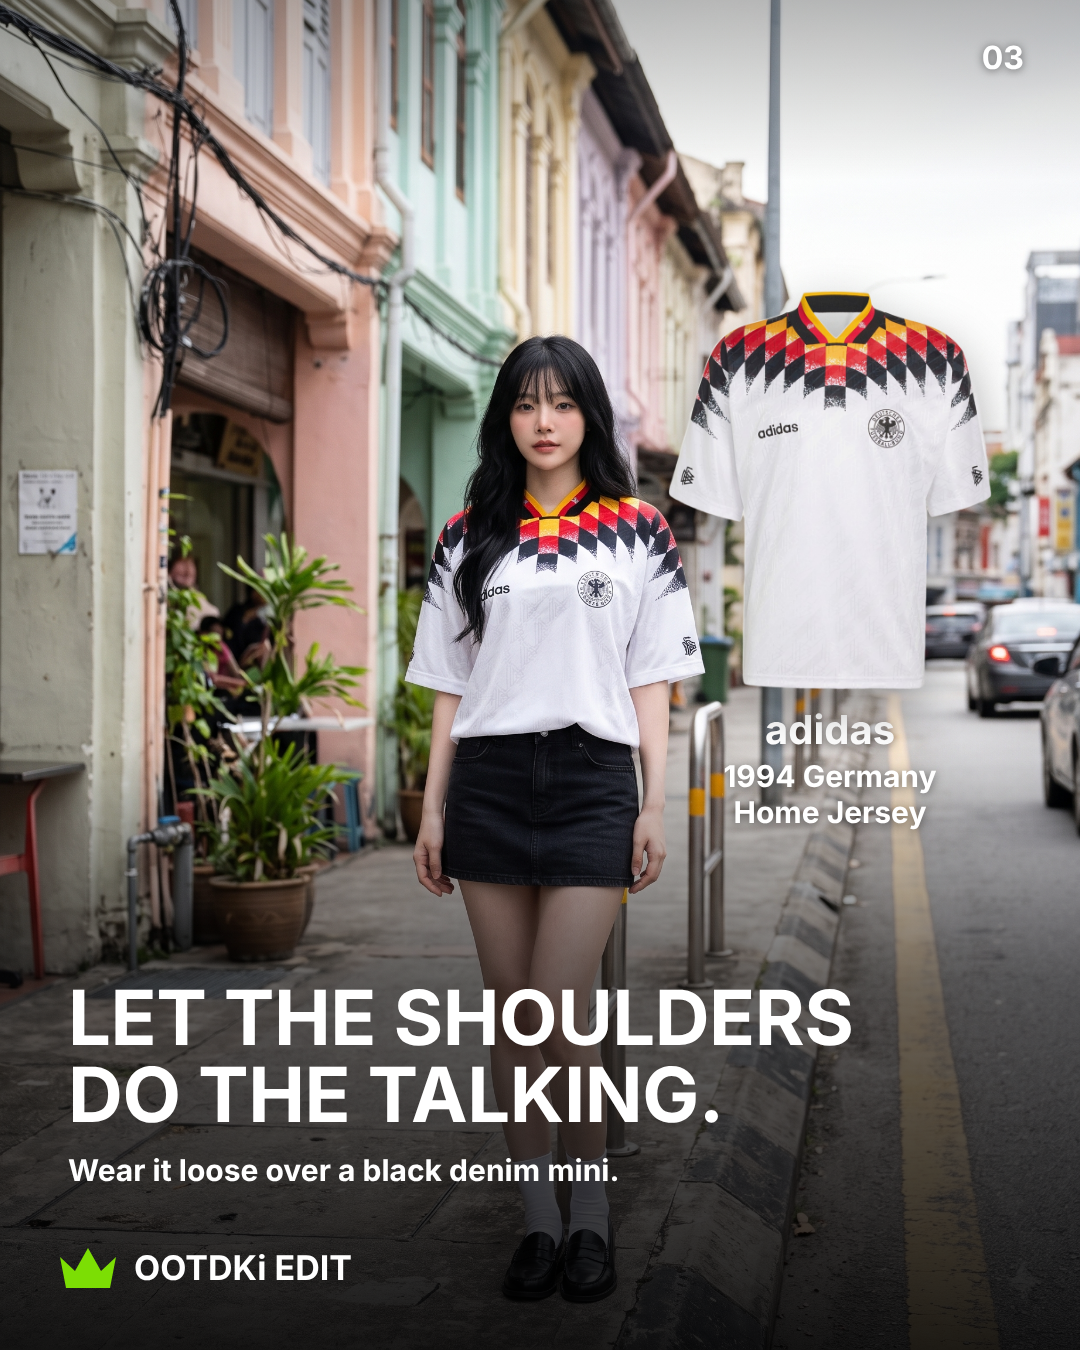
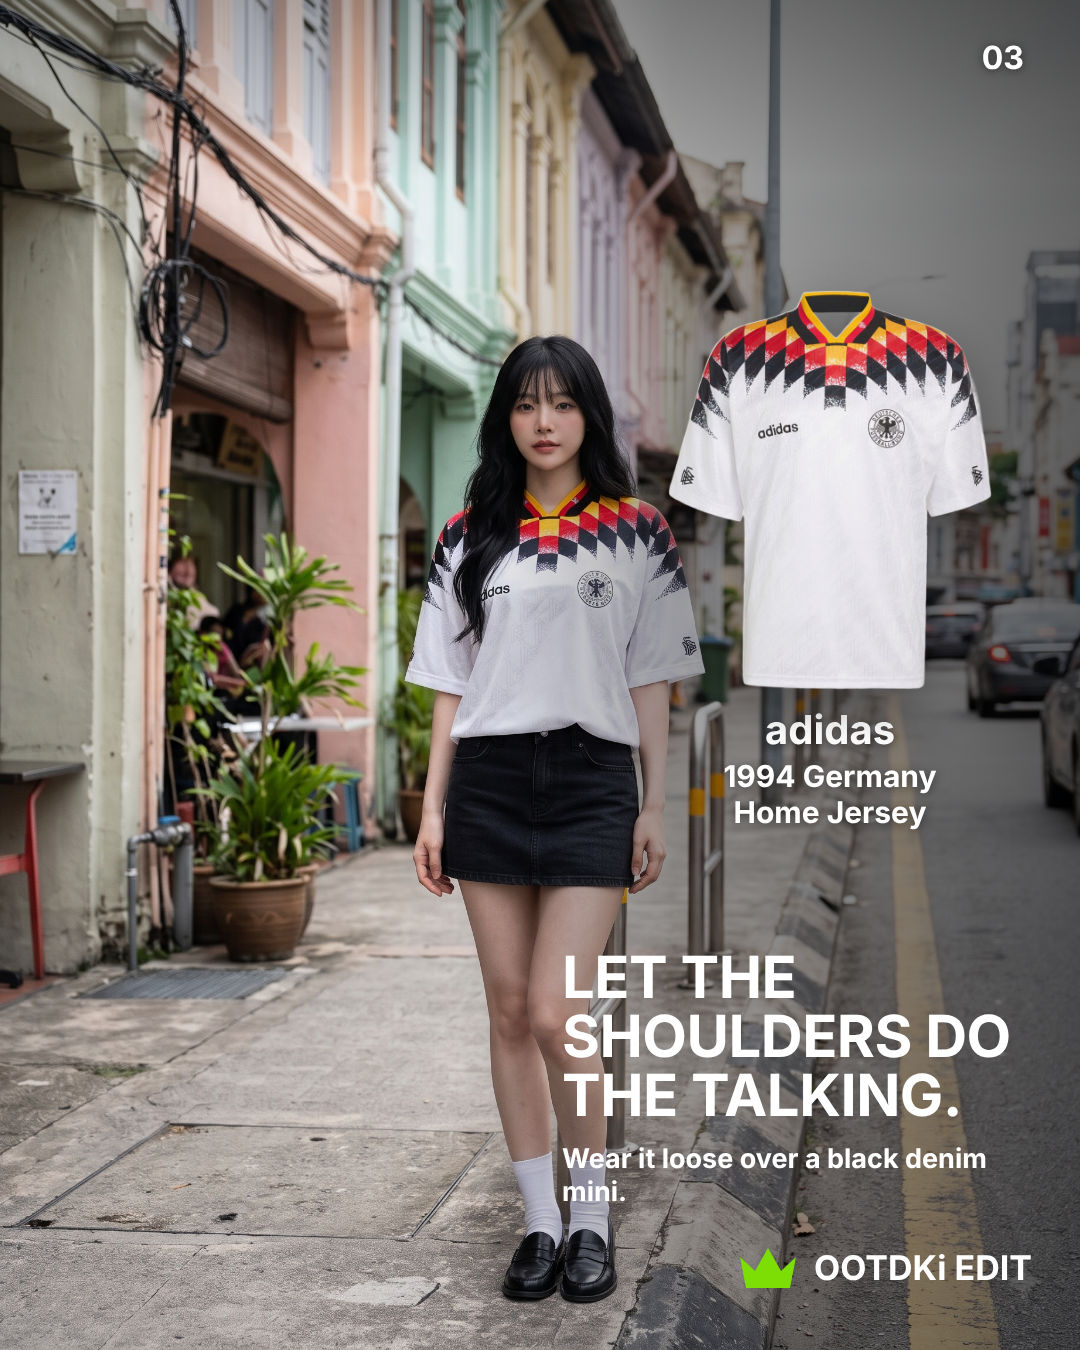
Carousel: move copy to right column so outfits show head to toe
Claude-Session: https://claude.ai/code/session_01GpgvCArn8CBuwwCWMsWG9F

diff --git a/carousel_bye_bye_adidas/carousel.html b/carousel_bye_bye_adidas/carousel.html
@@ -29,6 +29,10 @@ h1{font-size:76px;line-height:1.02;text-transform:uppercase;letter-spacing:-.5px
 .prod .brand{font-size:40px;margin-top:18px;line-height:1.1}
 .prod .pname{font-size:30px;line-height:1.2;margin-top:6px}
 .prod .yr{display:inline-block;background:#000;color:#fff;font-size:22px;padding:3px 10px;text-shadow:none;margin-bottom:8px}
+.shade.side{left:auto;top:0;width:58%;height:100%;background:linear-gradient(to right,rgba(0,0,0,0),rgba(0,0,0,.35) 35%,rgba(0,0,0,.6))}
+.text.side{left:auto;right:48px;width:470px;bottom:130px}
+.text.side h1{font-size:58px}
+.text.side .body{font-size:27px}
 </style></head><body>
 <svg width="0" height="0" style="position:absolute"><defs><symbol id="crown" viewBox="0 0 56 40"><path fill="#7CDE04" d="M0 9l15 14L28 0l13 23 15-14-6 31H6z"/></symbol></defs></svg>
 
@@ -42,43 +46,43 @@ h1{font-size:76px;line-height:1.02;text-transform:uppercase;letter-spacing:-.5px
 </section>
 <section class="card">
   <div class="ph" style="inset:0;--img:url(photos/02_look.png)"><p class="note"><i>02_look.png</i></p></div>
-  <div class="shade" style="height:45%"></div>
+  <div class="shade side"></div>
   <span class="num">02</span>
   <div class="prod" style="right:40px;top:290px;width:420px"><img src="photos/product_90.png" style="width:380px;height:400px"><p class="brand">adidas</p><p class="pname">1990 West Germany<br>Home Jersey</p></div>
-  <div class="text"><h1>Our all-time<br>favourite.</h1><p class="body">Blue jeans. Red ballet flats.<br>That zigzag does the rest.</p></div>
-  <div class="foot"><svg class="crown"><use href="#crown"/></svg>OOTDKi EDIT</div>
+  <div class="text side"><h1>Our all-time<br>favourite.</h1><p class="body">Blue jeans. Red ballet flats.<br>That zigzag does the rest.</p></div>
+  <div class="foot" style="left:auto;right:48px"><svg class="crown"><use href="#crown"/></svg>OOTDKi EDIT</div>
 </section>
 <section class="card">
   <div class="ph" style="inset:0;--img:url(photos/03_look.png)"><p class="note"><i>03_look.png</i></p></div>
-  <div class="shade" style="height:45%"></div>
+  <div class="shade side"></div>
   <span class="num">03</span>
   <div class="prod" style="right:40px;top:290px;width:420px"><img src="photos/product_94.png" style="width:380px;height:400px"><p class="brand">adidas</p><p class="pname">1994 Germany<br>Home Jersey</p></div>
-  <div class="text"><h1>Let the shoulders<br>do the talking.</h1><p class="body">Wear it loose over a black denim mini.</p></div>
-  <div class="foot"><svg class="crown"><use href="#crown"/></svg>OOTDKi EDIT</div>
+  <div class="text side"><h1>Let the shoulders do the talking.</h1><p class="body">Wear it loose over a black denim mini.</p></div>
+  <div class="foot" style="left:auto;right:48px"><svg class="crown"><use href="#crown"/></svg>OOTDKi EDIT</div>
 </section>
 <section class="card">
   <div class="ph" style="inset:0;--img:url(photos/04_look.png)"><p class="note"><i>04_look.png</i></p></div>
-  <div class="shade" style="height:45%"></div>
+  <div class="shade side"></div>
   <span class="num">04</span>
   <div class="prod" style="right:40px;top:290px;width:420px"><img src="photos/product_22.png" style="width:380px;height:400px"><p class="brand">adidas</p><p class="pname">2022 Germany<br>Home Jersey</p></div>
-  <div class="text"><h1>Follow the<br>black stripe.</h1><p class="body">Tuck it into black wide-leg trousers.</p></div>
-  <div class="foot"><svg class="crown"><use href="#crown"/></svg>OOTDKi EDIT</div>
+  <div class="text side"><h1>Follow the<br>black stripe.</h1><p class="body">Tuck it into black wide-leg trousers.</p></div>
+  <div class="foot" style="left:auto;right:48px"><svg class="crown"><use href="#crown"/></svg>OOTDKi EDIT</div>
 </section>
 <section class="card">
   <div class="ph" style="inset:0;--img:url(photos/05_look.png)"><p class="note"><i>05_look.png</i></p></div>
-  <div class="shade" style="height:45%"></div>
+  <div class="shade side"></div>
   <span class="num">05</span>
   <div class="prod" style="right:40px;top:200px;width:420px"><span class="yr">’94</span><img src="photos/product_94.png" style="width:300px;height:250px"><span class="yr" style="margin-top:22px">’26</span><img src="photos/product_26.png" style="width:300px;height:250px"><p class="brand">adidas</p><p class="pname">2026 Germany<br>Home Jersey</p></div>
-  <div class="text"><h1>Spot the<br>’94 throwback.</h1><p class="body">Try the new zigzag with a stone maxi skirt.</p></div>
-  <div class="foot"><svg class="crown"><use href="#crown"/></svg>OOTDKi EDIT</div>
+  <div class="text side"><h1>Spot the<br>’94 throwback.</h1><p class="body">Try the new zigzag with a stone maxi skirt.</p></div>
+  <div class="foot" style="left:auto;right:48px"><svg class="crown"><use href="#crown"/></svg>OOTDKi EDIT</div>
 </section>
 <section class="card">
   <div class="ph" style="inset:0;--img:url(photos/06_look.png)"><p class="note"><i>06_look.png</i></p></div>
-  <div class="shade" style="height:45%"></div>
+  <div class="shade side"></div>
   <span class="num">06</span>
   <div class="prod" style="right:40px;top:290px;width:420px"><img src="photos/product_26t.png" style="width:380px;height:400px"><p class="brand">adidas</p><p class="pname">2026 Germany<br>Farewell Third Jersey</p></div>
-  <div class="text"><h1>The last one deserves<br>a night out.</h1><p class="body">Black satin skirt. Gold hoops.<br>See you at dinner.</p></div>
-  <div class="foot"><svg class="crown"><use href="#crown"/></svg>OOTDKi EDIT</div>
+  <div class="text side"><h1>The last one deserves<br>a night out.</h1><p class="body">Black satin skirt. Gold hoops.<br>See you at dinner.</p></div>
+  <div class="foot" style="left:auto;right:48px"><svg class="crown"><use href="#crown"/></svg>OOTDKi EDIT</div>
 </section>
 <!-- 07 CTA: wardrobe, 5 hangers -->
 <section class="card">
